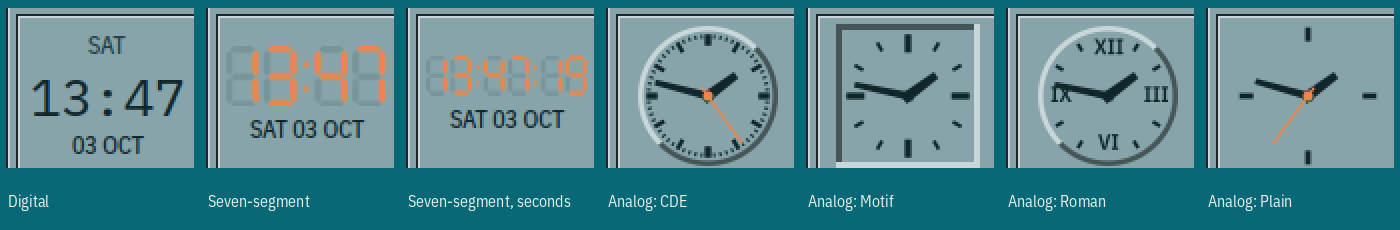
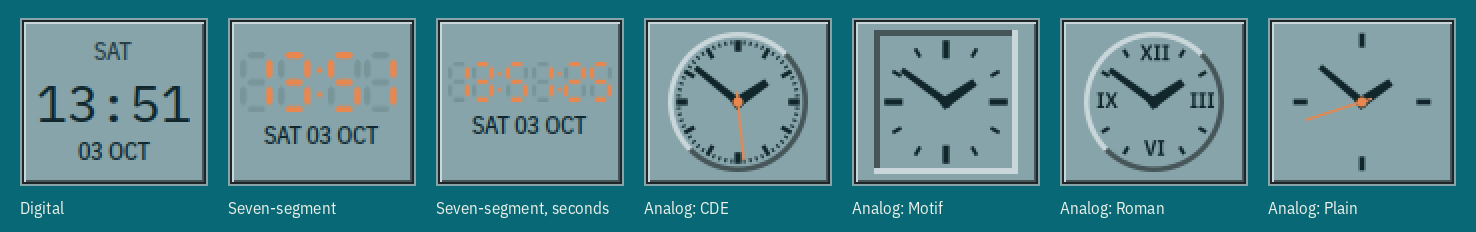
7-Segment-Anzeige: Fugen zwischen den Segmenten, Schatten sauber
Die Segmente ueberlappten an den Ecken (Fuge 15 % der Strichstaerke),
und ein danach gezeichnetes unbeleuchtetes Segment truebte das Ende
eines beleuchteten. Jetzt echte Fugen wie bei einer LCD-Anzeige, erst
die unbeleuchteten, dann die beleuchteten Segmente, auf ganze Pixel
gesetzt. Uebersichtsbild aller Uhranzeigen neu aufgenommen.

diff --git a/CDE/build/plasma/plasmoids/org.cde.copper.frontpanel/contents/ui/ClockFace.qml b/CDE/build/plasma/plasmoids/org.cde.copper.frontpanel/contents/ui/ClockFace.qml
@@ -80,10 +80,12 @@ Item {
             onPaint: {
                 const ctx = getContext("2d");
                 ctx.reset();
-                const h = height, w = h * 0.55, t = Math.max(1.5, h * 0.11), g = Math.max(0.5, t * 0.15);
+                // Bars meet at the corners with a real gap between them, as on
+                // an LCD; unlit bars first, so they never dull a lit end.
+                const h = Math.round(height), w = h * 0.55, t = Math.max(1.5, h * 0.11), g = Math.max(1, t * 0.55);
                 const on = face.accent, off = Qt.rgba(face.ink.r, face.ink.g, face.ink.b, 0.12);
                 function bar(x, y, len, horizontal, colour) {
-                    // A segment with bevelled ends.
+                    // A segment with pointed ends.
                     ctx.fillStyle = colour;
                     ctx.beginPath();
                     if (horizontal) {
@@ -96,27 +98,32 @@ Item {
                     ctx.closePath();
                     ctx.fill();
                 }
-                function digit(x, value) {
-                    const segs = lit[value];
+                function digit(x, value, lit) {
+                    const segs = segments.lit[value];
                     const top = t / 2, mid = h / 2, bottom = h - t / 2, left = x + t / 2, right = x + w - t / 2;
                     const parts = {a: [left, top, right - left, true], g: [left, mid, right - left, true], d: [left, bottom, right - left, true],
                                    f: [left, top, mid - top, false], b: [right, top, mid - top, false],
                                    e: [left, mid, bottom - mid, false], c: [right, mid, bottom - mid, false]};
                     for (const key in parts) {
+                        if ((segs.indexOf(key) >= 0) !== lit) continue;
                         const p = parts[key];
-                        bar(p[0], p[1], p[2], p[3], segs.indexOf(key) >= 0 ? on : off);
+                        bar(p[0], p[1], p[2], p[3], lit ? on : off);
                     }
                 }
-                let x = 0;
-                for (let i = 0; i < text.length; i++) {
-                    digit(x, Number(text[i]));
-                    x += h * 0.62;
-                    if (i % 2 === 1 && i < text.length - 1) {
-                        ctx.fillStyle = on;
-                        const r = t * 0.45, cx = x + h * 0.08;
-                        ctx.beginPath(); ctx.arc(cx, h * 0.3, r, 0, 2 * Math.PI); ctx.fill();
-                        ctx.beginPath(); ctx.arc(cx, h * 0.7, r, 0, 2 * Math.PI); ctx.fill();
-                        x += h * 0.22;
+                for (const lit of [false, true]) {
+                    let x = 0;
+                    for (let i = 0; i < text.length; i++) {
+                        digit(Math.round(x), Number(text[i]), lit);
+                        x += h * 0.62;
+                        if (i % 2 === 1 && i < text.length - 1) {
+                            if (lit) {
+                                ctx.fillStyle = on;
+                                const r = t * 0.45, cx = Math.round(x + h * 0.08);
+                                ctx.beginPath(); ctx.arc(cx, h * 0.3, r, 0, 2 * Math.PI); ctx.fill();
+                                ctx.beginPath(); ctx.arc(cx, h * 0.7, r, 0, 2 * Math.PI); ctx.fill();
+                            }
+                            x += h * 0.22;
+                        }
                     }
                 }
             }

diff --git a/CDE/frontpanel/contents/ui/ClockFace.qml b/CDE/frontpanel/contents/ui/ClockFace.qml
@@ -80,10 +80,12 @@ Item {
             onPaint: {
                 const ctx = getContext("2d");
                 ctx.reset();
-                const h = height, w = h * 0.55, t = Math.max(1.5, h * 0.11), g = Math.max(0.5, t * 0.15);
+                // Bars meet at the corners with a real gap between them, as on
+                // an LCD; unlit bars first, so they never dull a lit end.
+                const h = Math.round(height), w = h * 0.55, t = Math.max(1.5, h * 0.11), g = Math.max(1, t * 0.55);
                 const on = face.accent, off = Qt.rgba(face.ink.r, face.ink.g, face.ink.b, 0.12);
                 function bar(x, y, len, horizontal, colour) {
-                    // A segment with bevelled ends.
+                    // A segment with pointed ends.
                     ctx.fillStyle = colour;
                     ctx.beginPath();
                     if (horizontal) {
@@ -96,27 +98,32 @@ Item {
                     ctx.closePath();
                     ctx.fill();
                 }
-                function digit(x, value) {
-                    const segs = lit[value];
+                function digit(x, value, lit) {
+                    const segs = segments.lit[value];
                     const top = t / 2, mid = h / 2, bottom = h - t / 2, left = x + t / 2, right = x + w - t / 2;
                     const parts = {a: [left, top, right - left, true], g: [left, mid, right - left, true], d: [left, bottom, right - left, true],
                                    f: [left, top, mid - top, false], b: [right, top, mid - top, false],
                                    e: [left, mid, bottom - mid, false], c: [right, mid, bottom - mid, false]};
                     for (const key in parts) {
+                        if ((segs.indexOf(key) >= 0) !== lit) continue;
                         const p = parts[key];
-                        bar(p[0], p[1], p[2], p[3], segs.indexOf(key) >= 0 ? on : off);
+                        bar(p[0], p[1], p[2], p[3], lit ? on : off);
                     }
                 }
-                let x = 0;
-                for (let i = 0; i < text.length; i++) {
-                    digit(x, Number(text[i]));
-                    x += h * 0.62;
-                    if (i % 2 === 1 && i < text.length - 1) {
-                        ctx.fillStyle = on;
-                        const r = t * 0.45, cx = x + h * 0.08;
-                        ctx.beginPath(); ctx.arc(cx, h * 0.3, r, 0, 2 * Math.PI); ctx.fill();
-                        ctx.beginPath(); ctx.arc(cx, h * 0.7, r, 0, 2 * Math.PI); ctx.fill();
-                        x += h * 0.22;
+                for (const lit of [false, true]) {
+                    let x = 0;
+                    for (let i = 0; i < text.length; i++) {
+                        digit(Math.round(x), Number(text[i]), lit);
+                        x += h * 0.62;
+                        if (i % 2 === 1 && i < text.length - 1) {
+                            if (lit) {
+                                ctx.fillStyle = on;
+                                const r = t * 0.45, cx = Math.round(x + h * 0.08);
+                                ctx.beginPath(); ctx.arc(cx, h * 0.3, r, 0, 2 * Math.PI); ctx.fill();
+                                ctx.beginPath(); ctx.arc(cx, h * 0.7, r, 0, 2 * Math.PI); ctx.fill();
+                            }
+                            x += h * 0.22;
+                        }
                     }
                 }
             }
